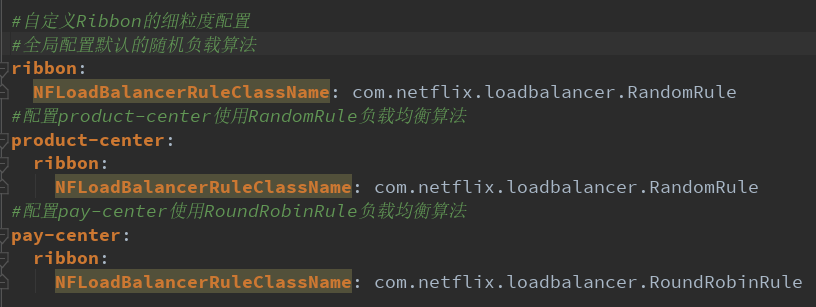
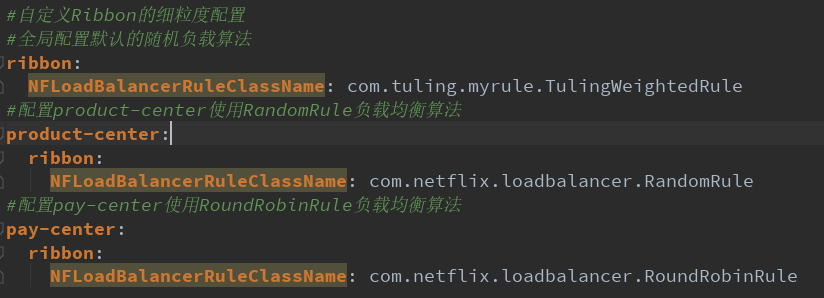
change

Changed region(s): [[0.0, 0.0, 0.9498, 0.6342], [0.0, 0.755, 0.9804, 0.9664], [0.0, 0.6644, 0.5821, 0.7248]]

diff --git a/_posts/2020-09-11-ribbon.md b/_posts/2020-09-11-ribbon.md
@@ -43,18 +43,81 @@ keywords: SpringCloud ribbon
 
 &nbsp; &nbsp; 在一些业务场景中，我们希望对不同的微服务集群使用不同的负载均衡算法，甚至某些服务集群使用自定义的负载均衡算法。比如：我对订单服务集群使用轮询负载算法，对付费服务集群使用随机负载算法，对积分服务集群使用自定义的权重负载算法，这时我们有两种方式可以实现： 
 
-- 基于yml文件配置的方法（推荐的方式）： 
+- 基于yml文件配置的方法（推荐的方式）： 通过yml配置的方式，对不同的微服务集群采用不同的负载算法，ribbon中自带的负载算法均是实现IRule接口。  
+
+&nbsp; &nbsp; IRule接口是一个ribbon-balancer包下的一个上层接口，大致结构如下，使用的是模板方法模式，其实现类实现了不同的负载均衡算法：
+
+类图如下： 
+
+&nbsp; ![](/images/posts/springCloud/ribbon6.png)  
+&nbsp; &nbsp; 我们可以基于此接口实现自己的负载均衡算法： 如下：
+
+自定义负载算法类：TulingWeightedRule.class （自定义实现权重算法：nacos注册中心可以给集群中的实例设置权重）
+
+	package com.tuling.myrule;
+	
+	import com.alibaba.cloud.nacos.NacosDiscoveryProperties;
+	import com.alibaba.cloud.nacos.ribbon.NacosServer;
+	import com.alibaba.nacos.api.exception.NacosException;
+	import com.alibaba.nacos.api.naming.NamingService;
+	import com.alibaba.nacos.api.naming.pojo.Instance;
+	import com.netflix.client.config.IClientConfig;
+	import com.netflix.loadbalancer.AbstractLoadBalancerRule;
+	import com.netflix.loadbalancer.BaseLoadBalancer;
+	import com.netflix.loadbalancer.Server;
+	import lombok.extern.slf4j.Slf4j;
+	import org.springframework.beans.factory.annotation.Autowired;
+	
+	/**
+	 */
+	@Slf4j
+	public class TulingWeightedRule extends AbstractLoadBalancerRule {
+	
+	    @Autowired
+	    private NacosDiscoveryProperties discoveryProperties;
+	
+	    @Override
+	    public void initWithNiwsConfig(IClientConfig clientConfig) {
+	        //读取配置文件并且初始化,ribbon内部的 几乎用不上
+	    }
+	
+	
+	    @Override
+	    public Server choose(Object key) {
+	        try {
+	            log.info("key:{}",key);
+	            BaseLoadBalancer baseLoadBalancer = (BaseLoadBalancer) this.getLoadBalancer();
+	            log.info("baseLoadBalancer--->:{}",baseLoadBalancer);
+	
+	            //获取微服务的名称
+	            String serviceName = baseLoadBalancer.getName();
+	
+	            //获取Nocas服务发现的相关组件API
+	            NamingService namingService =  discoveryProperties.namingServiceInstance();
+	
+	            //获取 一个基于nacos client 实现权重的负载均衡算法
+	            Instance instance = namingService.selectOneHealthyInstance(serviceName);
+	
+	            //返回一个server
+	            return new NacosServer(instance);
+	        } catch (NacosException e) {
+	            log.error("自定义负载均衡算法错误");
+	        }
+	        return null;
+	    }
+	}
  
 
+在yml配置中只需要指定对应的配置算法包位置即可，如下图所示： 
+
 &nbsp; ![](/images/posts/springCloud/ribbon3.png)   
-这种配置方式不需要再添加其他的java代码
+这种配置方式不需要再添加其他的java代码，是最常用也是推荐的方式。
+
+**&nbsp; &nbsp; 在真实开发中一般我们会使用feign代替restTemplate+ribbon，feign是对ribbon的封装，针对feign调用配置负载均衡算法，其实也是对ribbon的配置，配置方法和上图一致**
 
 - 通过javaConfig的方式配置
 &nbsp; &nbsp; 定义负载算法的配置类：跟基础用法的原理一样，通过配置类向容器中加入实现IRule接口的负载算法即可。 
-IRule接口是一个ribbon-balancer包下的一个上层接口，大致结构如下，使用的是模板方法模式，其实现类实现了不同的负载均衡算法：
 
-类图如下：
-&nbsp; ![](/images/posts/springCloud/ribbon6.png)   
 
 这种方式需要增加一个配置类。并使用`@RibbonClients`注解，代码如下： 
 
@@ -153,63 +216,8 @@ IRule接口是一个ribbon-balancer包下的一个上层接口，大致结构如
 	
 	    @Bean
 	    public IRule theSameClusterPriorityRule() {
-	        return new TulingWeightedRule();
-	    }
-	}
-
-自定义负载算法类：TulingWeightedRule.class
-
-	package com.tuling.myrule;
-	
-	import com.alibaba.cloud.nacos.NacosDiscoveryProperties;
-	import com.alibaba.cloud.nacos.ribbon.NacosServer;
-	import com.alibaba.nacos.api.exception.NacosException;
-	import com.alibaba.nacos.api.naming.NamingService;
-	import com.alibaba.nacos.api.naming.pojo.Instance;
-	import com.netflix.client.config.IClientConfig;
-	import com.netflix.loadbalancer.AbstractLoadBalancerRule;
-	import com.netflix.loadbalancer.BaseLoadBalancer;
-	import com.netflix.loadbalancer.Server;
-	import lombok.extern.slf4j.Slf4j;
-	import org.springframework.beans.factory.annotation.Autowired;
-	
-	/**
-	 */
-	@Slf4j
-	public class TulingWeightedRule extends AbstractLoadBalancerRule {
-	
-	    @Autowired
-	    private NacosDiscoveryProperties discoveryProperties;
-	
-	    @Override
-	    public void initWithNiwsConfig(IClientConfig clientConfig) {
-	        //读取配置文件并且初始化,ribbon内部的 几乎用不上
-	    }
-	
-	
-	    @Override
-	    public Server choose(Object key) {
-	        try {
-	            log.info("key:{}",key);
-	            BaseLoadBalancer baseLoadBalancer = (BaseLoadBalancer) this.getLoadBalancer();
-	            log.info("baseLoadBalancer--->:{}",baseLoadBalancer);
-	
-	            //获取微服务的名称
-	            String serviceName = baseLoadBalancer.getName();
-	
-	            //获取Nocas服务发现的相关组件API
-	            NamingService namingService =  discoveryProperties.namingServiceInstance();
-	
-	            //获取 一个基于nacos client 实现权重的负载均衡算法
-	            Instance instance = namingService.selectOneHealthyInstance(serviceName);
-	
-	            //返回一个server
-	            return new NacosServer(instance);
-	        } catch (NacosException e) {
-	            log.error("自定义负载均衡算法错误");
-	        }
-	        return null;
-	    }
+	        return new TulingWeightedRule();  //上文中自定义的负载算法	     
+		}
 	}
 
 
